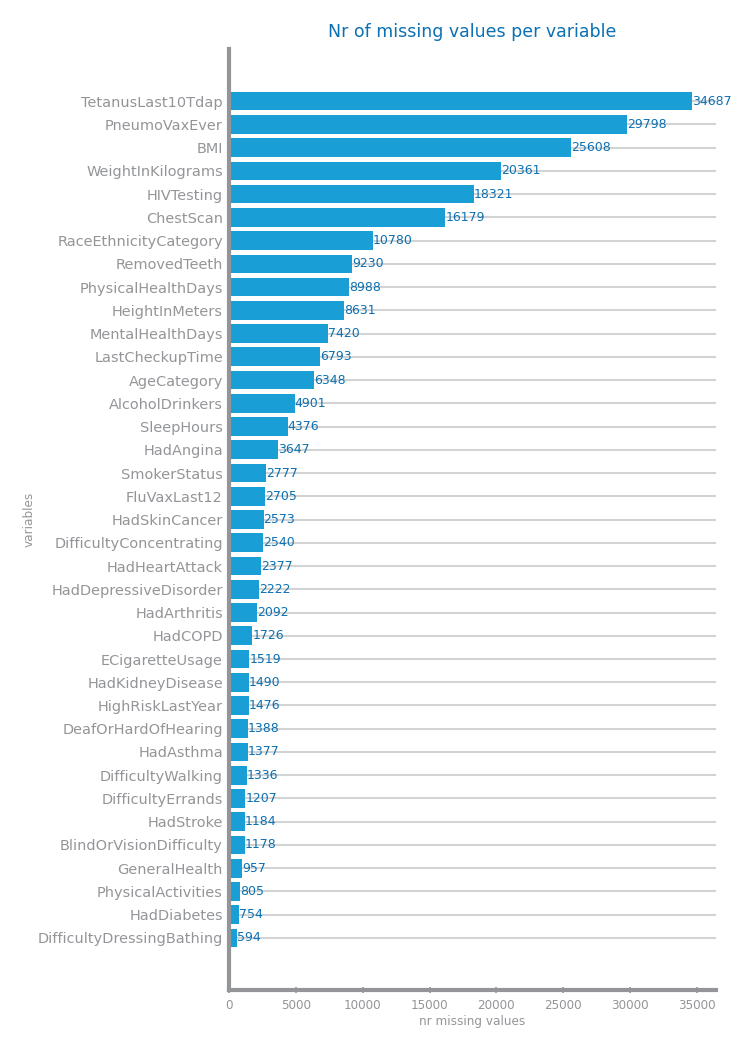
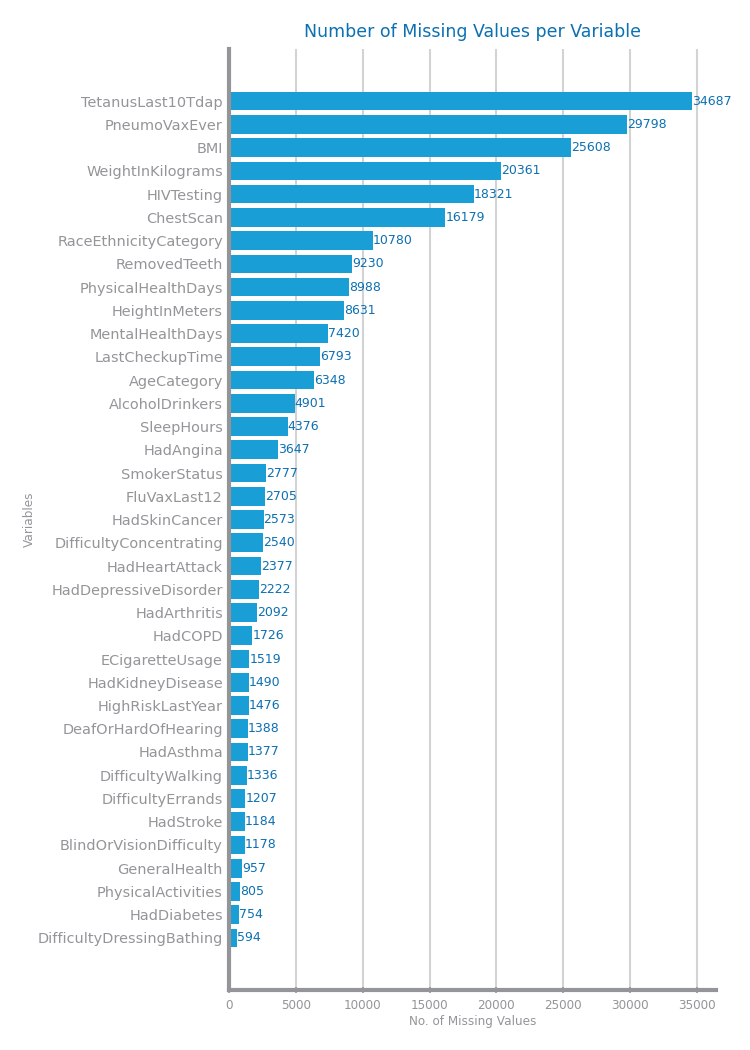
Fixed images for Block 1 of the project; Changed Horizontal Bar Chart

Changed region(s): [[0.3373, 0.0914, 0.9507, 0.9143], [0.3987, 0.0, 0.8587, 0.061], [0.552, 0.9448, 0.6747, 0.9752]]

diff --git a/dataset_1/code/3.3-outliers.py b/dataset_1/code/3.3-outliers.py
@@ -1,0 +1,74 @@
+from pandas import Series, read_csv, DataFrame
+from matplotlib.pyplot import figure, savefig, show
+from dslabs_functions import plot_multibar_chart, get_variable_types, HEIGHT
+
+NR_STDEV: int = 2           #REVER VALORES
+IQR_FACTOR: float = 1.5
+
+filename = "../../class_pos_covid.csv"
+file_tag = "CovidPos"
+data: DataFrame = read_csv(filename)
+
+variables_types: dict[str, list] = get_variable_types(data)
+numeric: list[str] = variables_types["numeric"]
+
+def determine_outlier_thresholds_for_var(
+    summary5: Series, std_based: bool = True, threshold: float = NR_STDEV
+) -> tuple[float, float]:
+    top: float = 0
+    bottom: float = 0
+    if std_based:
+        std: float = threshold * summary5["std"]
+        top = summary5["mean"] + std
+        bottom = summary5["mean"] - std
+    else:
+        iqr: float = threshold * (summary5["75%"] - summary5["25%"])
+        top = summary5["75%"] + iqr
+        bottom = summary5["25%"] - iqr
+
+    return top, bottom
+
+
+def count_outliers(
+    nrstdev: int = NR_STDEV,
+    iqrfactor: float = IQR_FACTOR,
+) -> dict:
+    outliers_iqr: list = []
+    outliers_stdev: list = []
+    summary5: DataFrame = data[numeric].describe()
+
+    for var in numeric:
+        top: float
+        bottom: float
+        top, bottom = determine_outlier_thresholds_for_var(
+            summary5[var], std_based=True, threshold=nrstdev
+        )
+        outliers_stdev += [
+            data[data[var] > top].count()[var] + data[data[var] < bottom].count()[var]
+        ]
+
+        top, bottom = determine_outlier_thresholds_for_var(
+            summary5[var], std_based=False, threshold=iqrfactor
+        )
+        outliers_iqr += [
+            data[data[var] > top].count()[var] + data[data[var] < bottom].count()[var]
+        ]
+
+    return {"iqr": outliers_iqr, "stdev": outliers_stdev}
+
+
+if [] != numeric:
+    outliers: dict[str, int] = count_outliers()
+    figure(figsize=(12, HEIGHT))
+    plot_multibar_chart(
+        numeric,
+        outliers,
+        title="Nr of standard outliers per variable",
+        xlabel="variables",
+        ylabel="nr outliers",
+        percentage=False,
+    )
+    savefig(f"../images/{file_tag}_outliers_standard.png")
+    show()
+else:
+    print("There are no numeric variables.")

diff --git a/dataset_1/code/3.5-num_dist.py b/dataset_1/code/3.5-num_dist.py
@@ -1,0 +1,32 @@
+from numpy import ndarray
+from pandas import DataFrame, read_csv
+from matplotlib.figure import Figure
+from matplotlib.pyplot import savefig, show, subplots
+from dslabs_functions import define_grid,  get_variable_types, HEIGHT
+
+filename = "../../class_pos_covid.csv"
+file_tag = "CovidPos"
+data: DataFrame = read_csv(filename)
+
+variables_types: dict[str, list] = get_variable_types(data)
+numeric: list[str] = variables_types["numeric"]
+
+
+if [] != numeric:
+    rows: int
+    cols: int
+    rows, cols = define_grid(len(numeric))
+    fig: Figure
+    axs: ndarray
+    fig, axs = subplots(
+        rows, cols, figsize=(cols * HEIGHT, rows * HEIGHT), squeeze=False
+    )
+    i, j = 0, 0
+    for n in range(len(numeric)):
+        axs[i, j].set_title("Boxplot for %s" % numeric[n])
+        axs[i, j].boxplot(data[numeric[n]].dropna().values)
+        i, j = (i + 1, 0) if (n + 1) % cols == 0 else (i, j + 1)
+    savefig(f"../images/{file_tag}_single_boxplots.png")
+    show()
+else:
+    print("There are no numeric variables.")

diff --git a/dataset_1/code/dslabs_functions.py b/dataset_1/code/dslabs_functions.py
@@ -71,7 +71,7 @@ def set_chart_xticks(xvalues: list, ax: Axes, percentage: bool=False):
             ax.set_xlim((xvalues[0], xvalues[-1]))
             ax.set_xticks(xvalues, labels=xvalues)
         else:
-            rotation = 45
+            rotation = 0
 
         ax.tick_params(axis='x', labelrotation=rotation, labelsize='xx-small')
         
@@ -175,6 +175,10 @@ def plot_horizontal_bar_chart(elements: list, values: list, error: list=None, ax
     bars = ax.barh(y_pos, values, xerr=error, align='center', error_kw={'lw': 0.5, 'ecolor': 'r'})
     ax.set_yticks(y_pos, labels=elements)
     ax.invert_yaxis()  # labels read top-to-bottom
+
+    # Enable only the vertical grid lines for the y-axis
+    ax.yaxis.grid(False)
+    ax.xaxis.grid(True)
 
     # Adicionar os números correspondentes a cada barra
     for bar, value in zip(bars, values):

diff --git a/dataset_1/code/1.3-missing_values.py b/dataset_1/code/1.3-missing_values.py
@@ -15,15 +15,13 @@ for var in data.columns:
 # Ordenar o dicionário por valores (número de valores ausentes)
 sorted_mv = dict(sorted(mv.items(), key=lambda item: item[1], reverse=True))
 
-print(sorted_mv)
-
 figure(figsize=(5, 7))
 plot_horizontal_bar_chart(
     list(sorted_mv.keys()),
     list(sorted_mv.values()),
-    title="Nr of missing values per variable",
-    xlabel="nr missing values",
-    ylabel="variables",
+    title="Number of Missing Values per Variable",
+    xlabel="No. of Missing Values",
+    ylabel="Variables",
 )
 tight_layout()
 savefig(f"../images/{file_tag}_mv.png")

diff --git a/dataset_1/code/1.1-records_vs_variables.py b/dataset_1/code/1.1-records_vs_variables.py
@@ -7,9 +7,9 @@ file_tag = "CovidPos"
 data: DataFrame = read_csv(filename)
 
 figure(figsize=(5, 5))
-values: dict[str, int] = {"nr records": data.shape[0], "nr variables": data.shape[1]}
+values: dict[str, int] = {"No. of Records": data.shape[0], "No. of Variables": data.shape[1]}
 plot_bar_chart(
-    list(values.keys()), list(values.values()), title="Number of Records vs Number of Variables"
+    list(values.keys()), list(values.values()), title="Comparison between Number of Records and Variables"
 )
 savefig(f"../images/{file_tag}_records_variables.png")
 show()

diff --git a/dataset_1/code/1.2-variable_types.py b/dataset_1/code/1.2-variable_types.py
@@ -7,14 +7,13 @@ file_tag = "CovidPos"
 data: DataFrame = read_csv(filename)
 
 variable_types: dict[str, list] = get_variable_types(data)
-print(variable_types)
 counts: dict[str, int] = {}
 for tp in variable_types.keys():
     counts[tp] = len(variable_types[tp])
 
 figure(figsize=(5, 5))
 plot_bar_chart(
-    list(counts.keys()), list(counts.values()), title="Nr of variables per type"
+    list(counts.keys()), list(counts.values()), title="Number of Variables per Type"
 )
 savefig(f"../images/{file_tag}_variable_types.png")
 show()

diff --git a/dataset_1/code/3.4-hists_for_num_vars.py b/dataset_1/code/3.4-hists_for_num_vars.py
@@ -82,7 +82,7 @@ if [] != numeric:
     for n in range(len(numeric)):
         histogram_with_distributions(axs[i, j], data[numeric[n]].dropna(), numeric[n])
         i, j = (i + 1, 0) if (n + 1) % cols == 0 else (i, j + 1)
-    savefig(f"images/{file_tag}_histogram_numeric_distribution.png")
+    savefig(f"../images/{file_tag}_histogram_numeric_distribution.png")
     show()
 else:
     print("There are no numeric variables.")
